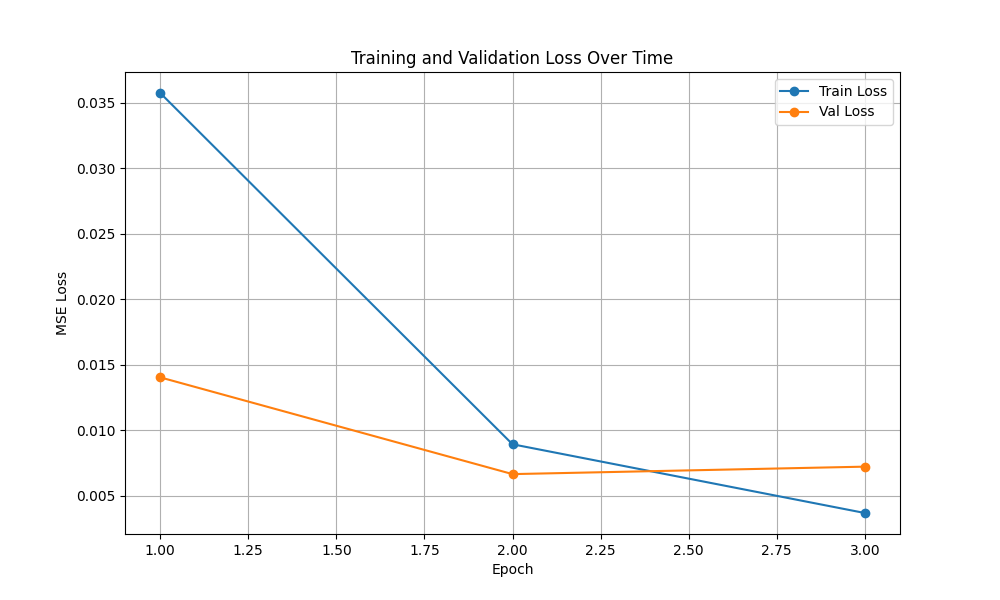
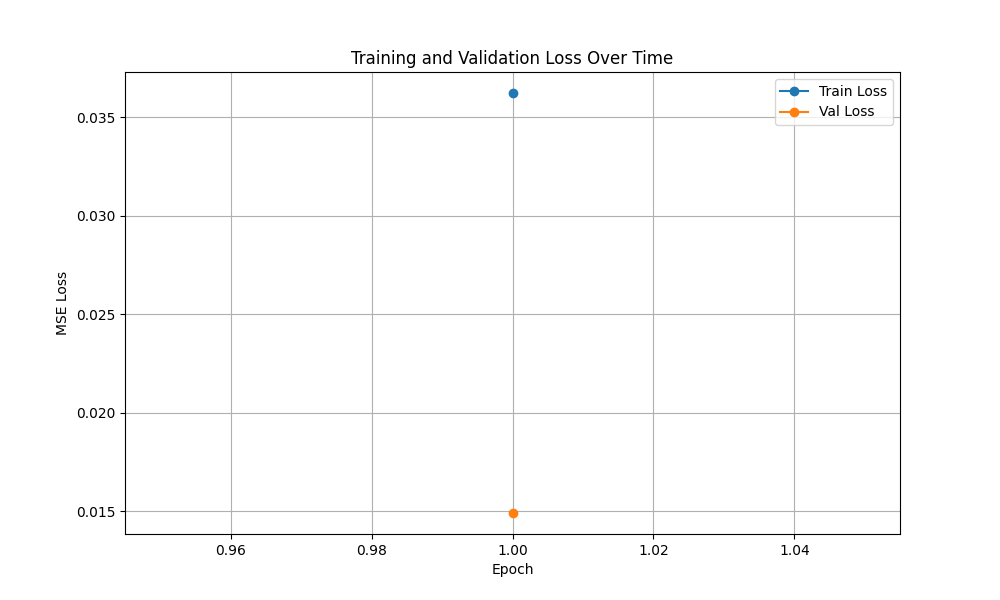
fix: metrics are being shown in mlflow

diff --git a/dagster_pipeline.py b/dagster_pipeline.py
@@ -20,9 +20,10 @@ class PreprocessConfig(Config):
     test_size: float = 0.2
     random_state: int = 42
     image_size: int = 224
+    batch_size: int = 16
 
 class TrainingConfig(Config):
-    epochs: int = 3
+    epochs: int = 1
     learning_rate: float = 0.0001
     batch_size: int = 16
 
@@ -35,6 +36,17 @@ CSV_CANDIDATES = [
     os.path.join(BASE_DIR, 'digital_biomass_labels.csv'),
     os.path.join(BASE_DIR, 'mlops_biomass_data', 'digital_biomass_labels.xlsx'),
 ]
+
+_MLFLOW_DB_URI = f"sqlite:///{os.path.join(BASE_DIR, 'mlflow.db')}"
+
+# Restore deleted experiment so dagster_mlflow resource can activate it
+def _restore_deleted_experiment(name: str) -> None:
+    client = mlflow.tracking.MlflowClient(_MLFLOW_DB_URI)
+    exp = client.get_experiment_by_name(name)
+    if exp is not None and exp.lifecycle_stage == "deleted":
+        client.restore_experiment(exp.experiment_id)
+
+_restore_deleted_experiment("plant_biomass_pipeline")
 
 def plot_to_markdown(fig) -> str:
     """Konvertiert eine matplotlib Figure in einen Markdown-Bild-String."""
@@ -113,10 +125,10 @@ def preprocessed_data(context: AssetExecutionContext, raw_dataset: dict, config:
         transforms.Normalize([0.485, 0.456, 0.406], [0.229, 0.224, 0.225])
     ])
     
-    train_loader = DataLoader(PlantDataset(train_df, img_dir, transform), batch_size=BATCH_SIZE, shuffle=True)
-    val_loader = DataLoader(PlantDataset(val_df, img_dir, transform), batch_size=BATCH_SIZE)
-    
-    context.log.info(f"DataLoaders created. Batch Size: {BATCH_SIZE}")
+    train_loader = DataLoader(PlantDataset(train_df, img_dir, transform), batch_size=config.batch_size, shuffle=True)
+    val_loader = DataLoader(PlantDataset(val_df, img_dir, transform), batch_size=config.batch_size)
+
+    context.log.info(f"DataLoaders created. Batch Size: {config.batch_size}")
     return {"train_loader": train_loader, "val_loader": val_loader, "max_weight_val": max_val}
 
 
@@ -133,64 +145,51 @@ def trained_model(context: AssetExecutionContext, preprocessed_data: dict, confi
     model.fc = nn.Linear(model.fc.in_features, 1)
     model = model.to(device)
     
-    optimizer = torch.optim.Adam(model.parameters(), lr=LEARNING_RATE)
+    optimizer = torch.optim.Adam(model.parameters(), lr=config.learning_rate)
     criterion = nn.MSELoss()
- 
+
     train_losses = []
     val_losses = []
- 
-    # Start MLflow run
-    with mlflow.start_run(run_name="resnet18_biomass_training"):
-        # Log at least 3 parameters (requirement met)
-        mlflow.log_param("epochs", EPOCHS)
-        mlflow.log_param("learning_rate", LEARNING_RATE)
-        mlflow.log_param("batch_size", BATCH_SIZE)
-        mlflow.log_param("model_architecture", "resnet18")
-        mlflow.log_param("optimizer", "Adam")
-        
-        for epoch in range(EPOCHS):
-            model.train()
-            train_loss = 0
-            for imgs, labels in train_loader:
+
+    # dagster_mlflow resource already started a run — log directly into it
+    mlflow.log_param("epochs", config.epochs)
+    mlflow.log_param("learning_rate", config.learning_rate)
+    mlflow.log_param("batch_size", config.batch_size)
+    mlflow.log_param("model_architecture", "resnet18")
+    mlflow.log_param("optimizer", "Adam")
+
+    for epoch in range(config.epochs):
+        model.train()
+        train_loss = 0
+        for imgs, labels in train_loader:
+            imgs, labels = imgs.to(device), labels.to(device).unsqueeze(1)
+            optimizer.zero_grad()
+            loss = criterion(model(imgs), labels)
+            loss.backward()
+            optimizer.step()
+            train_loss += loss.item()
+
+        model.eval()
+        val_loss = 0
+        with torch.no_grad():
+            for imgs, labels in val_loader:
                 imgs, labels = imgs.to(device), labels.to(device).unsqueeze(1)
-                optimizer.zero_grad()
                 loss = criterion(model(imgs), labels)
-                loss.backward()
-                optimizer.step()
-                train_loss += loss.item()
-            
-            model.eval()
-            val_loss = 0
-            with torch.no_grad():
-                for imgs, labels in val_loader:
-                    imgs, labels = imgs.to(device), labels.to(device).unsqueeze(1)
-                    loss = criterion(model(imgs), labels)
-                    val_loss += loss.item()
-            
-            avg_train = train_loss / len(train_loader)
-            avg_val = val_loss / len(val_loader)
-            train_losses.append(avg_train)
-            val_losses.append(avg_val)
-            
-            context.log.info(f"Epoch {epoch+1}: Train Loss {avg_train:.4f} | Val Loss {avg_val:.4f}")
-            
-            # Log metrics per epoch for the MLflow UI
-            mlflow.log_metric("train_loss", avg_train, step=epoch)
-            mlflow.log_metric("val_loss", avg_val, step=epoch)
- 
-        # Save model as artifact (requirement met)
-        mlflow.pytorch.log_model(model, "model")
-        context.log.info("Model successfully saved to MLflow.")
-        
-    context.add_output_metadata({
-    "final_train_loss": MetadataValue.float(train_losses[-1]),
-    "final_val_loss": MetadataValue.float(val_losses[-1]),
-    "epochs_trained": MetadataValue.int(len(train_losses)),
-    "device": MetadataValue.text(str(device)),
-    "model_architecture": MetadataValue.text("ResNet-18"),
-    })
-    
-    # Plot wie bisher erstellen
+                val_loss += loss.item()
+
+        avg_train = train_loss / len(train_loader)
+        avg_val = val_loss / len(val_loader)
+        train_losses.append(avg_train)
+        val_losses.append(avg_val)
+
+        context.log.info(f"Epoch {epoch+1}: Train Loss {avg_train:.4f} | Val Loss {avg_val:.4f}")
+
+        mlflow.log_metric("train_loss", avg_train, step=epoch)
+        mlflow.log_metric("val_loss", avg_val, step=epoch)
+
+    mlflow.pytorch.log_model(model, "model")
+    context.log.info("Model successfully saved to MLflow.")
+
     fig, ax = plt.subplots(figsize=(10, 6))
     ax.plot(range(1, len(train_losses) + 1), train_losses, label='Train Loss', marker='o')
     ax.plot(range(1, len(val_losses) + 1), val_losses, label='Val Loss', marker='o')
@@ -200,23 +199,23 @@ def trained_model(context: AssetExecutionContext, preprocessed_data: dict, confi
     ax.legend()
     ax.grid(True)
 
-    # Plot in Datei UND als Markdown
+    mlflow.log_figure(fig, "training_curves.png")
     plot_path = os.path.join(BASE_DIR, 'dagster_training_curves.png')
     fig.savefig(plot_path)
     plot_md = plot_to_markdown(fig)
     plt.close(fig)
 
-# Metadata anhängen
     context.add_output_metadata({
-    "final_val_mse_scaled": MetadataValue.float(final_val_mse_scaled),
-    "final_val_mse_grams": MetadataValue.float(final_val_mse_grams),
-    "final_val_rmse_grams": MetadataValue.float(final_val_rmse_grams),
-    "training_curves": MetadataValue.md(plot_md),     # ← Plot direkt im UI!
-    "plot_file": MetadataValue.path(plot_path),
-    "mlflow_ui": MetadataValue.url("http://localhost:5000"),
+        "final_train_loss": MetadataValue.float(train_losses[-1]),
+        "final_val_loss": MetadataValue.float(val_losses[-1]),
+        "epochs_trained": MetadataValue.int(len(train_losses)),
+        "device": MetadataValue.text(str(device)),
+        "model_architecture": MetadataValue.text("ResNet-18"),
+        "training_curves": MetadataValue.md(plot_md),
+        "plot_file": MetadataValue.path(plot_path),
+        "mlflow_ui": MetadataValue.url("http://localhost:5000"),
     })
- 
-    # Pass the trained model and loss history to the next asset
+
     return {"model": model, "train_losses": train_losses, "val_losses": val_losses}
 
 
@@ -267,16 +266,15 @@ def model_evaluation(
         f"Final Val RMSE (grams): {final_val_rmse_grams:.4f}"
     )
  
-    # Log final metrics into the same MLflow experiment (new run for evaluation)
-    with mlflow.start_run(run_name="resnet18_biomass_evaluation", nested=False):
-        mlflow.log_metric("final_val_mse_scaled", final_val_mse_scaled)
-        mlflow.log_metric("final_val_mse_grams", final_val_mse_grams)
-        mlflow.log_metric("final_val_rmse_grams", final_val_rmse_grams)
+    # dagster_mlflow resource already started a run — log directly into it
+    mlflow.log_metric("final_val_mse_scaled", final_val_mse_scaled)
+    mlflow.log_metric("final_val_mse_grams", final_val_mse_grams)
+    mlflow.log_metric("final_val_rmse_grams", final_val_rmse_grams)
  
     # Generate the training-curves plot
     plt.figure(figsize=(10, 6))
-    plt.plot(range(1, EPOCHS + 1), train_losses, label='Train Loss', marker='o')
-    plt.plot(range(1, EPOCHS + 1), val_losses, label='Val Loss', marker='o')
+    plt.plot(range(1, len(train_losses) + 1), train_losses, label='Train Loss', marker='o')
+    plt.plot(range(1, len(val_losses) + 1), val_losses, label='Val Loss', marker='o')
     plt.xlabel('Epoch')
     plt.ylabel('MSE Loss')
     plt.title('Training and Validation Loss Over Time')
@@ -306,7 +304,7 @@ defs = Definitions(
     resources={
         "mlflow": mlflow_tracking.configured({
             "experiment_name": "plant_biomass_pipeline",
-            "mlflow_tracking_uri": "sqlite:///mlflow.db"
+            "mlflow_tracking_uri": f"sqlite:///{os.path.join(BASE_DIR, 'mlflow.db')}"
         })
     }
 )

diff --git a/README.md b/README.md
@@ -95,7 +95,6 @@ Fixed the Dagster pipeline runs not showing up on MLFlow
 Improvements:
 
 Configs added for different assets.
-Plot added to Dagster
 
 
 
